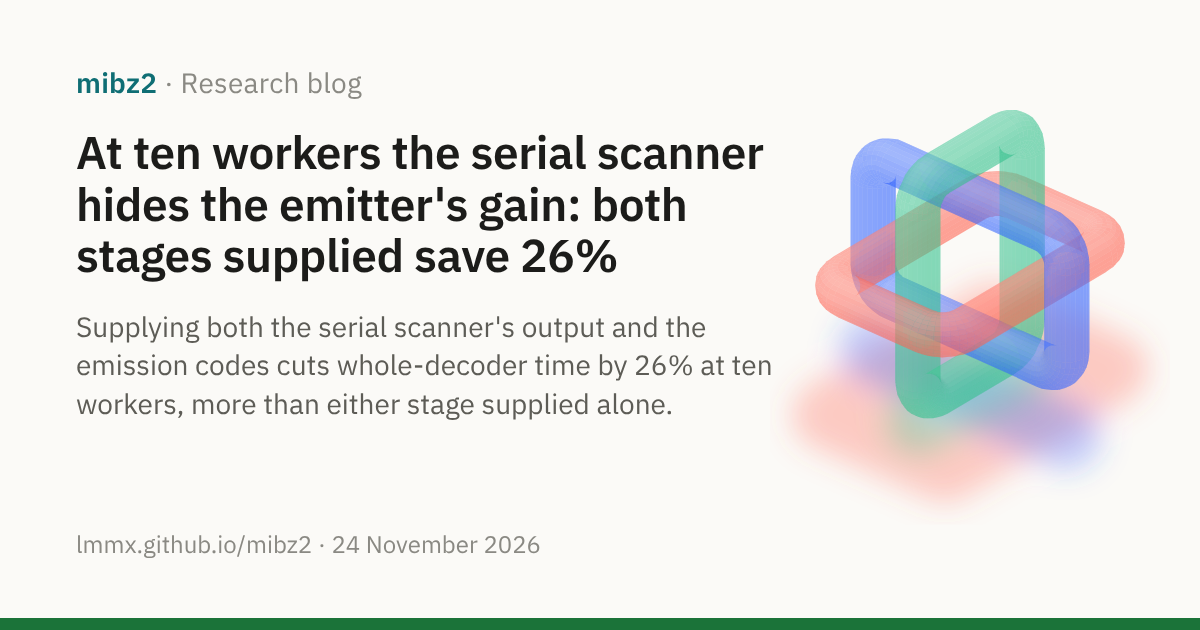
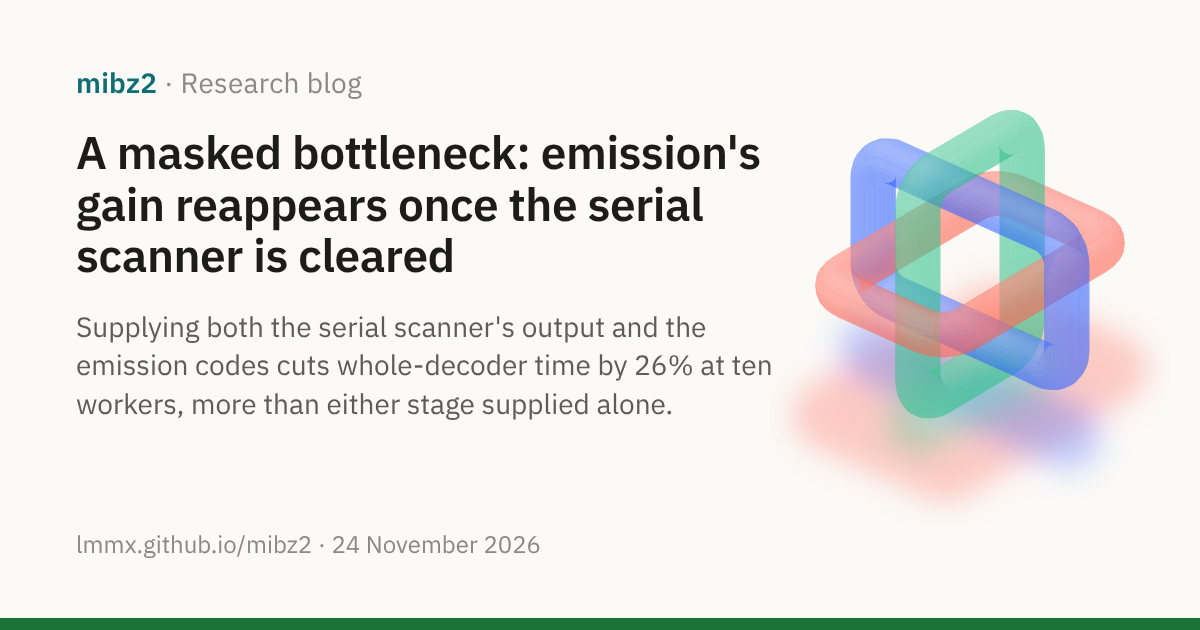
blog: retitle the four-arm post "A masked bottleneck"
Louis: the title was terrible; be more sophisticated. "At ten workers the serial scanner hides the
emitter's gain: both stages supplied save 26%" becomes "A masked bottleneck: emission's gain
reappears once the serial scanner is cleared", naming the phenomenon in the field's term and its
mechanism, with the figures left to the dek. URL kept. Nav label, index card and social card
updated.

check_prose, strict build, check_render and check_site pass.

Changed region(s): [[0.0617, 0.3016, 0.5858, 0.4524], [0.0925, 0.2111, 0.6475, 0.2714]]

diff --git a/docs/site/blog/index.md b/docs/site/blog/index.md
@@ -8,7 +8,7 @@ What mibz2's experiments are finding, and where they go next. The evidence behin
 post is in the [journals](../background/journals.md) and the pull requests they link.
 
 <div class="post-list">
-<a class="post-card" href="2026-11-24-the-scanner-hides-the-emitter.md"><img src="../assets/social/blog-2026-11-24-the-scanner-hides-the-emitter.png" alt="" loading="lazy"><span class="post-card-text"><span class="post-card-date">24 November 2026 · Research result</span><span class="post-card-title">At ten workers the serial scanner hides the emitter's gain: both stages supplied save 26%</span><span class="post-card-dek">Supplying both the serial scanner's output and the emission codes cuts whole-decoder time by 26% at ten workers, more than either stage supplied alone.</span></span></a>
+<a class="post-card" href="2026-11-24-the-scanner-hides-the-emitter.md"><img src="../assets/social/blog-2026-11-24-the-scanner-hides-the-emitter.png" alt="" loading="lazy"><span class="post-card-text"><span class="post-card-date">24 November 2026 · Research result</span><span class="post-card-title">A masked bottleneck: emission's gain reappears once the serial scanner is cleared</span><span class="post-card-dek">Supplying both the serial scanner's output and the emission codes cuts whole-decoder time by 26% at ten workers, more than either stage supplied alone.</span></span></a>
 <a class="post-card" href="2026-11-24-what-else-moves-together.md"><img src="../assets/social/blog-2026-11-24-what-else-moves-together.png" alt="" loading="lazy"><span class="post-card-text"><span class="post-card-date">24 November 2026 · Meta</span><span class="post-card-title">What else moves together: the search for a decoder below the proved floor</span><span class="post-card-dek">The next decoder for bzip2's block sort will come from rows that move together in a new sense, or from inversion steps that yield more information.</span></span></a>
 <a class="post-card" href="2026-11-24-halving-the-single-row-steps.md"><img src="../assets/social/blog-2026-11-24-halving-the-single-row-steps.png" alt="" loading="lazy"><span class="post-card-text"><span class="post-card-date">24 November 2026 · Meta</span><span class="post-card-title">Halving the single-row steps: a target only a new algorithm can meet</span><span class="post-card-dek">We now search for a new way to undo bzip2's block sort by forbidding the obvious mechanism and asking whether any exact decoder can do without it.</span></span></a>
 <a class="post-card" href="2026-11-22-decompression-is-the-harder-problem.md"><img src="../assets/social/blog-2026-11-22-decompression-is-the-harder-problem.png" alt="" loading="lazy"><span class="post-card-text"><span class="post-card-date">22 November 2026 · Meta</span><span class="post-card-title">Playing the hand you're dealt: in conversation with Thomas Murphy</span><span class="post-card-dek">A discussion of the mibz2 swarm, and why the Hutter Prize has it backwards: it rewards whoever stacks the deck best, when real data deals you the hand.</span></span></a>

diff --git a/docs/site/blog/2026-11-24-the-scanner-hides-the-emitter.md b/docs/site/blog/2026-11-24-the-scanner-hides-the-emitter.md
@@ -1,5 +1,5 @@
 ---
-title: "At ten workers the serial scanner hides the emitter's gain: both stages supplied save 26%"
+title: "A masked bottleneck: emission's gain reappears once the serial scanner is cleared"
 image: assets/social/blog-2026-11-24-the-scanner-hides-the-emitter.png
 description: "Supplying both the serial scanner's output and the emission codes cuts whole-decoder time by 26% at ten workers, more than either stage supplied alone."
 ---
@@ -11,7 +11,7 @@ description: "Supplying both the serial scanner's output and the emission codes 
 [mibz2 · Research blog](index.md)
 {: .post-kicker }
 
-# At ten workers the serial scanner hides the emitter's gain: both stages supplied save 26%
+# A masked bottleneck: emission's gain reappears once the serial scanner is cleared
 
 Supplying both the serial scanner's output and the emission codes cuts whole-decoder time by 26% at ten workers, more than either stage supplied alone.
 {: .post-dek }
